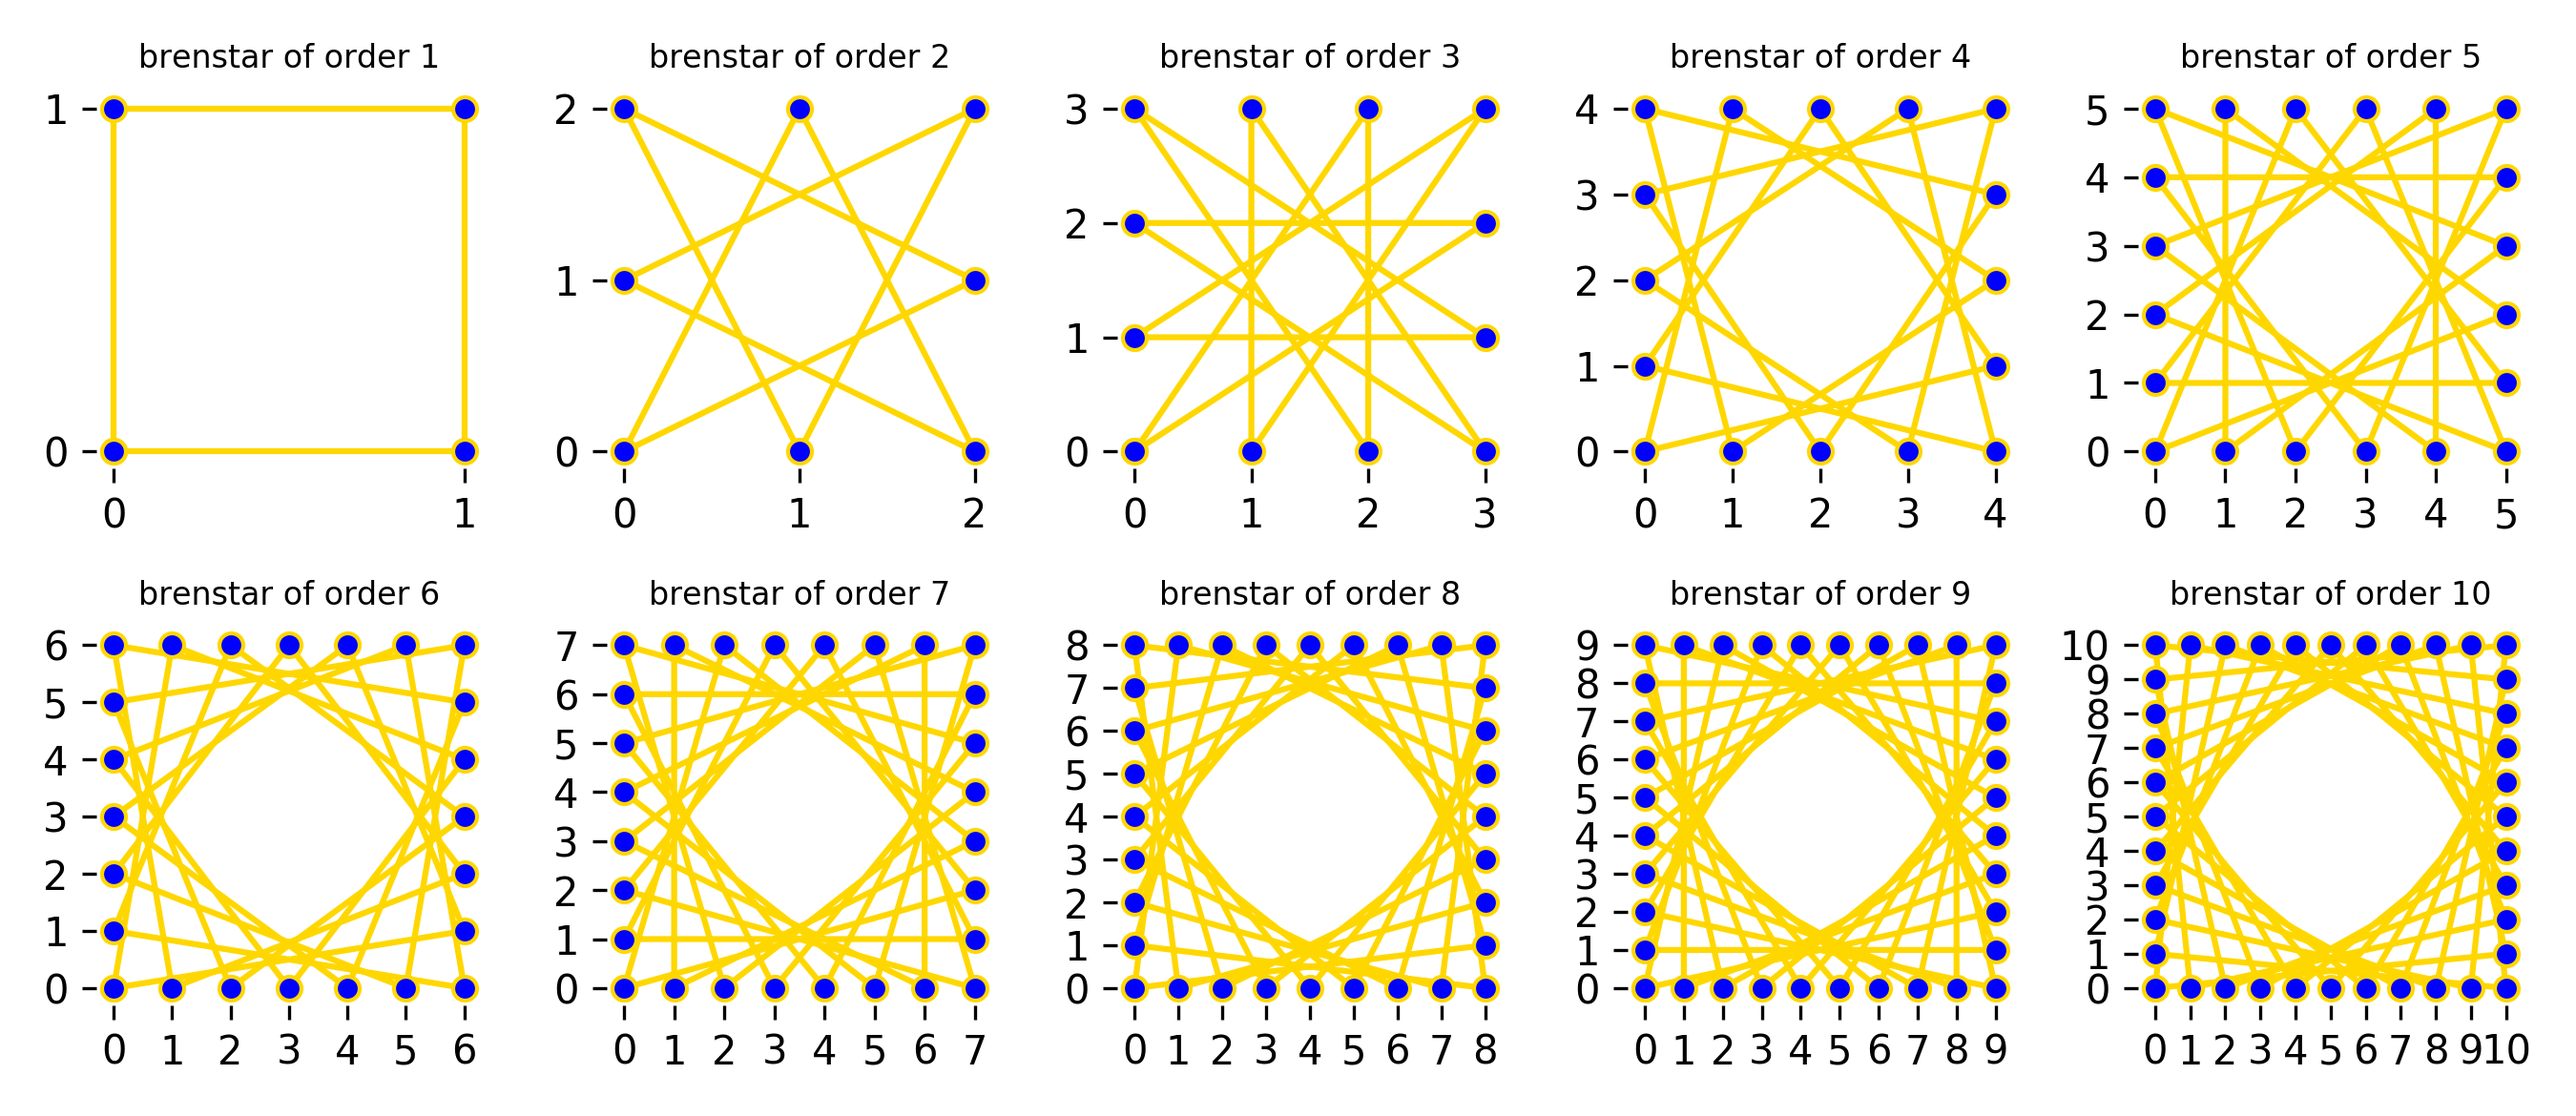
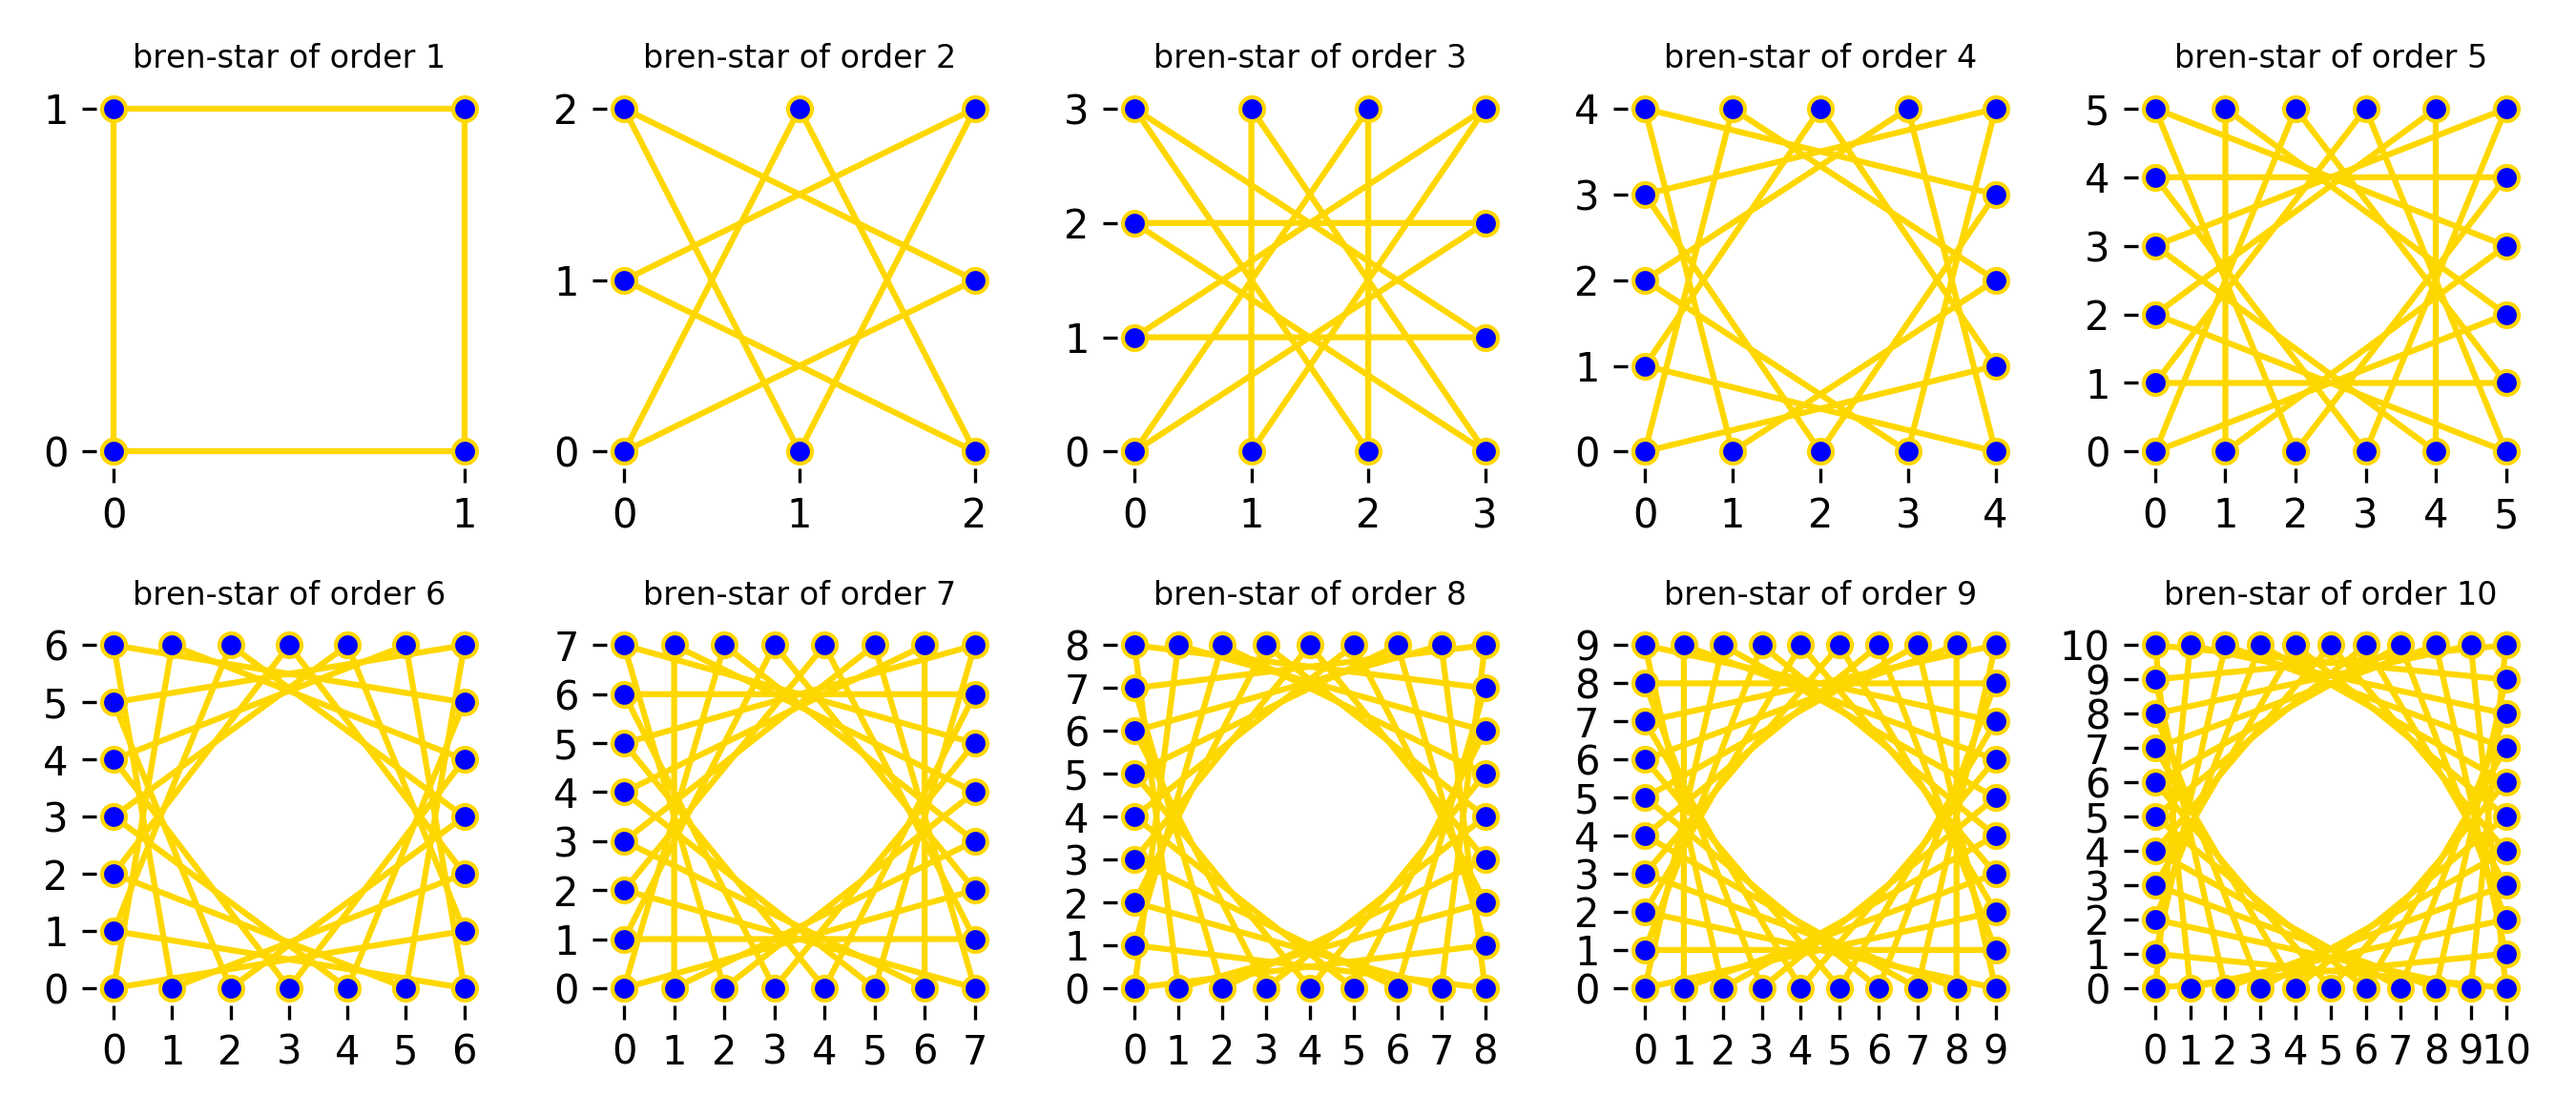
Adding example to readme.md

diff --git a/brenstars.py b/brenstars.py
@@ -124,7 +124,7 @@ if __name__ == "__main__":
     fig = plt.figure(10, figsize=(9, 3.9), dpi=300)
     for n in range(1, 11):
         ax = plt.subplot(2, 5, n)
-        ax.set_title(f'brenstar of order {n}', fontsize=8)
+        ax.set_title(f'bren-star of order {n}', fontsize=8)
         m = find_m_from_n(n)
         sq_coords = construct_square(n)
         st_coords = reorder_square_into_star(sq_coords, m)

diff --git a/README.md b/README.md
@@ -1,5 +1,8 @@
 # bren-stars
-This is  module to create bren stars.
+This is  module to create bren-stars.
 
 A bren star of order n is a set of 4n nodes arranged in a square where each node is connected to the nodes m nodes away 
-(where m is the smallest number that satilfies: m>n and  m is co-prime with 4n)  
+(where m is the smallest number that satilfies: m>n and  m is co-prime with 4n)
+
+##Example bren-stars
+![brenstars](brenstars1-10.png?raw=true "brenstars 1 thru 10")
